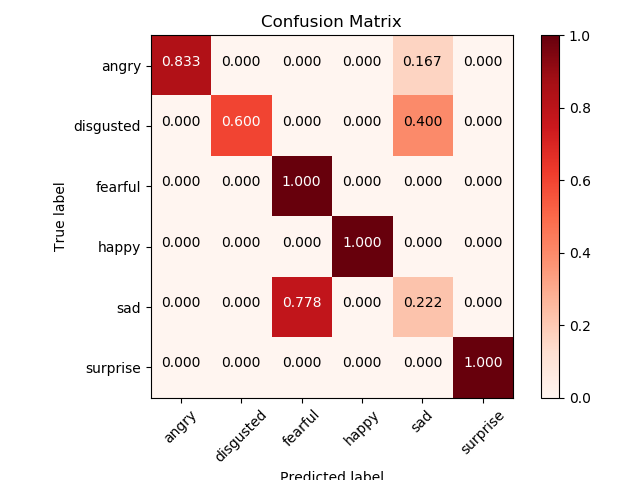
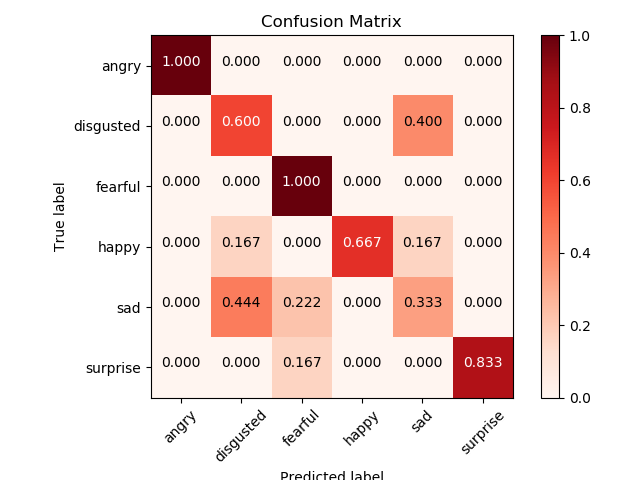
Clean up training code

Changed region(s): [[0.3125, 0.4375, 0.8125, 0.8438], [0.5938, 0.0625, 0.7188, 0.2188], [0.2188, 0.0625, 0.3438, 0.2188]]

diff --git a/src/train.py b/src/train.py
@@ -10,7 +10,10 @@ import numpy as np
 import os
 
 epochs = 100
-batch_size = 1
+batch_size = 8
+lstm_unit = 2048
+hidden_unit = 512
+model_file = '../LSTM_' + str(batch_size) + '_' + str(lstm_unit) + '_' + str(hidden_unit) + '.h5'
 
 def load_data():
     # load training data
@@ -43,9 +46,9 @@ def load_data():
 
 def get_network(X_train):
     model = Sequential()
-    model.add(LSTM(256, return_sequences=False, input_shape=X_train.shape[1:],
-                   dropout=0.2))
-    model.add(Dense(1024, activation='relu'))
+    model.add(LSTM(lstm_unit, return_sequences=False, input_shape=X_train.shape[1:],
+                   dropout=0.5))
+    model.add(Dense(hidden_unit, activation='relu'))
     model.add(Dropout(0.5))
     model.add(Dense(6, activation='softmax'))
     model.compile(optimizer='adam',
@@ -53,13 +56,13 @@ def get_network(X_train):
     return model
 
 def train(model, X_train, y_train, X_test, y_test): 
-    callbacks = [ModelCheckpoint('../LSTM_256_1024.h5', monitor='val_acc', save_best_only=True, verbose=0)]
+    callbacks = [ModelCheckpoint(model_file, monitor='val_acc', save_best_only=True, verbose=0)]
     model.fit(X_train, y_train,
               epochs=epochs,
               batch_size=batch_size,
               validation_data=(X_test, y_test),
               callbacks=callbacks)
-    model = load_model('../LSTM_256_1024.h5')
+    model = load_model(model_file)
     score = model.evaluate(X_test, y_test)
     print(score)
     return model

diff --git a/src/evaluate.py b/src/evaluate.py
@@ -20,7 +20,7 @@ if __name__ == '__main__':
 #     loaded_model = model_from_json(loaded_model_json)
 #     # load weights into new model
 #     loaded_model.load_weights("../PreTraineLSTMWeight.h5")
-    loaded_model = load_model('../LSTM_256_1024.h5')
+    loaded_model = load_model('../LSTM_8_2048_512.h5')
     print("Loaded model from disk")
     
     # evaluate loaded model on test data
